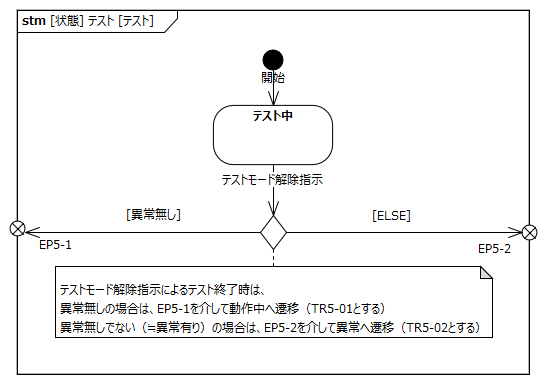
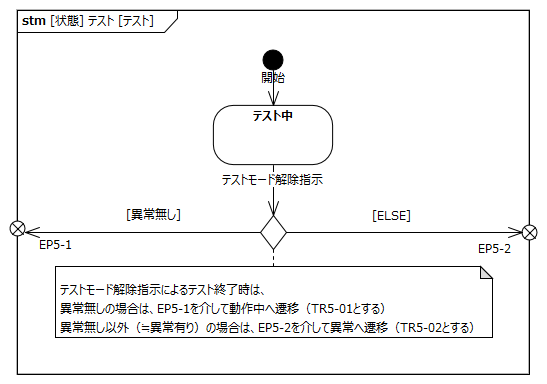
プルリク#57指摘事項対応 ・状態表示する→状態を表示する（状態表示しない→状態を表示しない） ・異常無しでない→異常無し以外（sm-05.png内) ・自動遷移に対して、ID付与（遷移図中はメモとして追記）

Changed region(s): [[0.1865, 0.8125, 0.9013, 0.875]]

diff --git a/requirements/requirement.md b/requirements/requirement.md
@@ -1172,17 +1172,18 @@ date: 2022年2月09日
 |TR0-02|起動中/動作中/異常/テスト/リプロ → 電源OFF|電源OFF操作|SysRS-11b<br/>SysRS-15<br/>SysRS-19<br/>SysRS-20<br/>SysRS-21<br/>SysRS-22|電源OFF操作はシャットダウン操作/電源スイッチ長押しを想定※1|
 |TR0-03|起動中/動作中 → 異常|異常検知|SysRS-11a||
 |TR0-04|異常 → テスト|テストモード遷移指示|SysRS-11b<br/>SysRS-19<br/>SysRS-20<br/>SysRS-21|異常の内部状態によらずテスト可能な想定|
-|※2|EP2-1 → テスト|なし(自動遷移)|SysRS-19<br/>SysRS-20<br/>SysRS-21|遷移元（動作中）内部でのテストモード遷移指示により遷移する想定|
-|※2|EP2-2 → リプロ|なし(自動遷移)|SysRS-22|遷移元（動作中）内部でのリプロモード遷移指示により遷移する想定|
-|※3|EP3-1 → 動作中|なし(自動遷移)|SysRS-11b|遷移元（異常）内部での異常復帰操作により遷移する想定|
-|※4|EP5-1 → 動作中|なし(自動遷移)|SysRS-19<br/>SysRS-20<br/>SysRS-21|遷移元（テスト）内部でのテストモード解除指示により遷移する想定|
-|※4|EP5-2 → 異常|なし(自動遷移)|SysRS-11a<br/>SysRS-19<br/>SysRS-20<br/>SysRS-21|遷移元（テスト）内部でのテストモード解除指示により遷移する想定|
+|TR0-05|起動中 → 動作中|なし(自動遷移)|SysRS-01|起動中の完了による自動遷移|
+|TR0-06|EP2-1 → テスト|なし(自動遷移)|※2|遷移元（動作中）内部でのテストモード遷移指示により遷移する想定※3|
+|TR0-07|EP2-2 → リプロ|なし(自動遷移)|※2|遷移元（動作中）内部でのリプロモード遷移指示により遷移する想定※3|
+|TR0-08|EP3-1 → 動作中|なし(自動遷移)|※2|遷移元（異常）内部での異常復帰操作により遷移する想定※4|
+|TR0-09|EP5-1 → 動作中|なし(自動遷移)|※2|遷移元（テスト）内部でのテストモード解除指示により遷移する想定※5|
+|TR0-10|EP5-2 → 異常|なし(自動遷移)|※2|遷移元（テスト）内部でのテストモード解除指示により遷移する想定※5|
 
-
-※1:リプロの場合、書き換え用PCからのシャットダウン指示も電源OFF操作となる    
-※2:遷移元（動作中）の詳細は「SM-02:動作中」参照  
-※3:遷移元（異常）の詳細は「SM-03:異常」参照  
-※4:遷移元（テスト）の詳細は「SM-05:テスト」参照
+※1:リプロの場合、書き換え用PCからのシャットダウン指示も電源OFF操作となる  
+※2:遷移元の分析内で特定するものとする  
+※3:遷移元（動作中）の詳細は「SM-02:動作中」参照  
+※4:遷移元（異常）の詳細は「SM-03:異常」参照  
+※5:遷移元（テスト）の詳細は「SM-05:テスト」参照  
 
 
 <!-- TODO:状態遷移図は適切な粒度・範囲で分割する -->
@@ -1210,10 +1211,10 @@ date: 2022年2月09日
 
 |No.|状態遷移|トリガー|影響を受ける要求|備考|
 |---:|:---|:---|:---|:---|
-|TR1-01|開始 → 状態表示|電源OFF操作[DC-ON]|SysRS-15|状態表示/異常検知できる範囲を残してロボットを終了する想定（終了中の状態表示する）|
-|TR1-02|開始 → 状態非表示|電源OFF操作[ELSE]|SysRS-15|ロボット全体を終了する想定（終了中の状態表示する）|
-|TR1-03|状態表示 → 状態非表示|DC-OFF検知|SysRS-15|システム全てを終了する想定（終了中の状態表示しない）|
-|TR1-04|状態非表示 → 状態表示|DC-ON検知|SysRS-01|状態表示/異常検知できる範囲でロボットの一部を起動する想定（起動中の状態表示しない）|
+|TR1-01|開始 → 状態表示|電源OFF操作[DC-ON]|SysRS-15|状態表示/異常検知できる範囲を残してロボットを終了する想定（終了中の状態を表示する）|
+|TR1-02|開始 → 状態非表示|電源OFF操作[ELSE]|SysRS-15|ロボット全体を終了する想定（終了中の状態を表示する）|
+|TR1-03|状態表示 → 状態非表示|DC-OFF検知|SysRS-15|システム全てを終了する想定（終了中の状態を表示しない）|
+|TR1-04|状態非表示 → 状態表示|DC-ON検知|SysRS-01|状態表示/異常検知できる範囲でロボットの一部を起動する想定（起動中の状態を表示しない）|
 
 <div style="page-break-before:always"></div>
 
@@ -1250,16 +1251,16 @@ date: 2022年2月09日
 |TR2-08|リリース移動中 → 遠隔操作モード|ステーション離脱検知|SysRS-03|ステーション離脱検知はリリースの自律走行終了のタイミング※2|
 |TR2-09|一時停止 → EP2-1|テストモード遷移指示|SysRS-19<br/>SysRS-20<br/>SysRS-21|※3|
 |TR2-10|一時停止 → EP2-2|リプロモード遷移指示|SysRS-22|※4|
-|※3※5|Sub-EP1 → EP2-1|なし(自動遷移)|SysRS-19<br/>SysRS-20<br/>SysRS-21|遷移元（ステーション待機中）内部でのテストモード遷移指示により遷移する想定|
-|※5|Sub-EP2 → リリース移動中|なし(自動遷移)|SysRS-03|遷移元（ステーション待機中）内部での自動リリースによるDC-OFF検知により遷移する想定|
-|※5|Sub-EP3 → 一時停止|なし(自動遷移)|SysRS-06|遷移元（ステーション待機中）内部での手動リリースによるDC-OFF検知により遷移する想定|
-
+|TR2-11|Sub-EP1 → EP2-1|なし(自動遷移)|※5|遷移元（ステーション待機中）内部でのテストモード遷移指示により遷移する想定※3※6|
+|TR2-12|Sub-EP2 → リリース移動中|なし(自動遷移)|※5|遷移元（ステーション待機中）内部での自動リリースによるDC-OFF検知により遷移する想定※6|
+|TR2-13|Sub-EP3 → 一時停止|なし(自動遷移)|※5|遷移元（ステーション待機中）内部での手動リリースによるDC-OFF検知により遷移する想定※6|
 
 ※1:DC-ON検知は手動ドッキング/自動ドッキングどちらもありうる想定  
 ※2:充電ステーションから遠隔操作での走行操作指示が可能な距離（20cmを想定）離れた時点を想定  
 ※3:EP2-1を介して全体の状態遷移図のテストへ遷移する  
 ※4:EP2-2を介して全体の状態遷移図のリプロへ遷移する  
-※5:遷移元（ステーション待機中）の詳細は「SM-02-1:ステーション待機中」参照  
+※5:遷移元の分析内で特定するものとする  
+※6:遷移元（ステーション待機中）の詳細は「SM-02-1:ステーション待機中」参照  
 
 
 <div style="page-break-before:always"></div>
@@ -1403,14 +1404,14 @@ date: 2022年2月09日
     - 自己診断結果がNGの場合、起動処理の異常をLEDなどに表示する
 	- 一時停止状態が解除され外部指示状態になるまで遠隔操作指示は受け付けない
     - TR0-01より
-      - 電源ON操作をされた場合は、ロボット全体を起動する（起動中の状態表示する）
+      - 電源ON操作をされた場合は、ロボット全体を起動する（起動中の状態を表示する）
         - 上記電源ON操作は
           - DC-OFFの場合、電源スイッチ短押し/長押しである想定
           - DC-OFFの場合、電源スイッチ短押しである（長押しは無視する）想定
-    - TR2-01,TR2-02より
+    - TR0-05,TR2-01,TR2-02より
       - 起動処理終了後は一時停止（充電ステーションに接続された状態であれば、ステーション待機中）となる
     - TR1-04より
-      - 「電源OFF」の「状態非表示」で充電ステーションに接続された場合、状態表示/異常検知できる範囲でロボットの一部を起動する（起動中の状態表示しない）
+      - 「電源OFF」の「状態非表示」で充電ステーションに接続された場合、状態表示/異常検知できる範囲でロボットの一部を起動する（起動中の状態を表示しない）
         - ロボットの一部はMiimo Main ECUと表示LEDの起動を想定
 
 **要求抽出**
@@ -2067,11 +2068,11 @@ SysRS-11と統合のため廃止
         - 電源OFF操作は、電源スイッチ長押し/シャットダウン操作を想定
           - リプロの場合、書き換え用PCからのシャットダウン指示も電源OFF操作となる想定
     - TR1-01より
-      - 充電ステーションに接続された状態での電源OFF操作は状態表示/異常検知できる範囲を残してシステムを終了する（終了中の状態表示する）
+      - 充電ステーションに接続された状態での電源OFF操作は状態表示/異常検知できる範囲を残してシステムを終了する（終了中の状態を表示する）
     - TR1-02より
-      - 充電ステーションから取り外された状態での電源OFF操作はシステム全てを終了する（終了中の状態表示する）
+      - 充電ステーションから取り外された状態での電源OFF操作はシステム全てを終了する（終了中の状態を表示する）
     - TR1-03より
-      - 「電源OFF」の「状態表示」で充電ステーションから取り外された場合、システム全てを終了する（終了中の状態表示しない）
+      - 「電源OFF」の「状態表示」で充電ステーションから取り外された場合、システム全てを終了する（終了中の状態を表示しない）
 
 **要求抽出**
 
